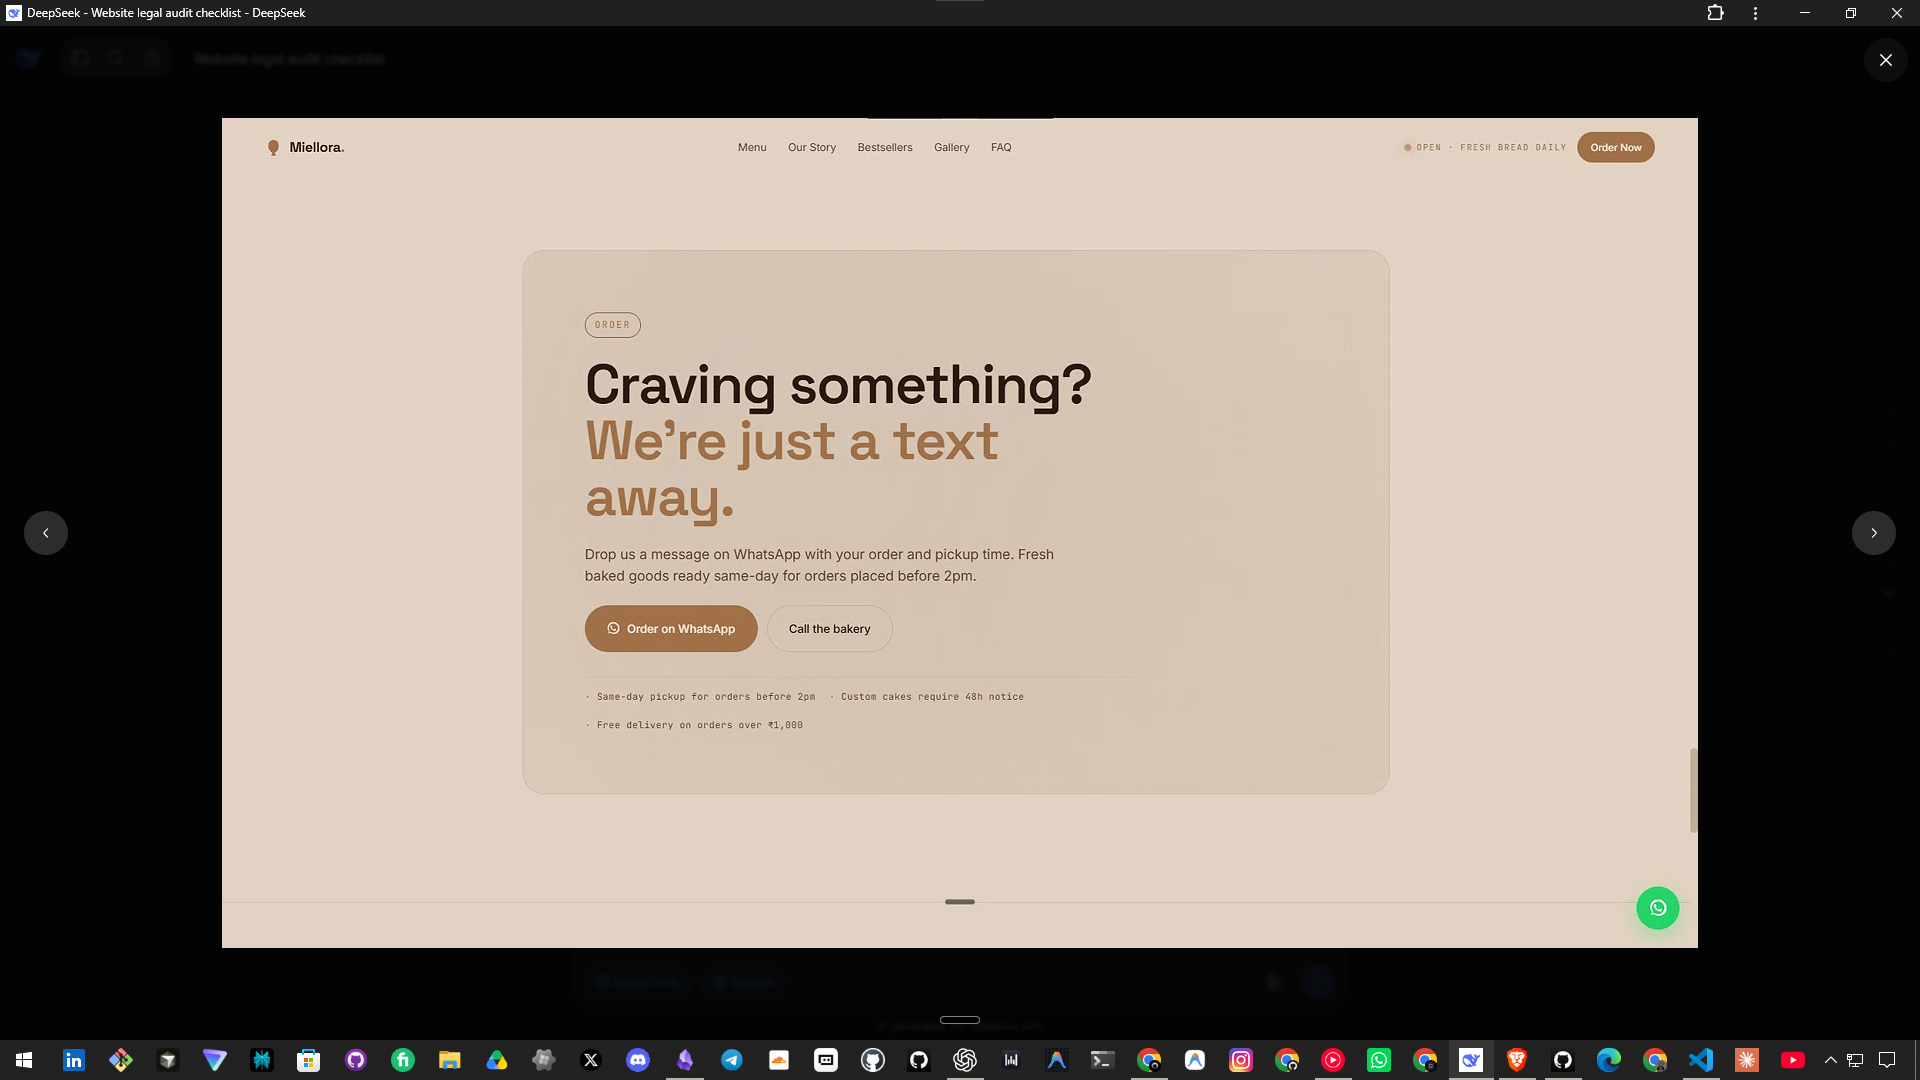
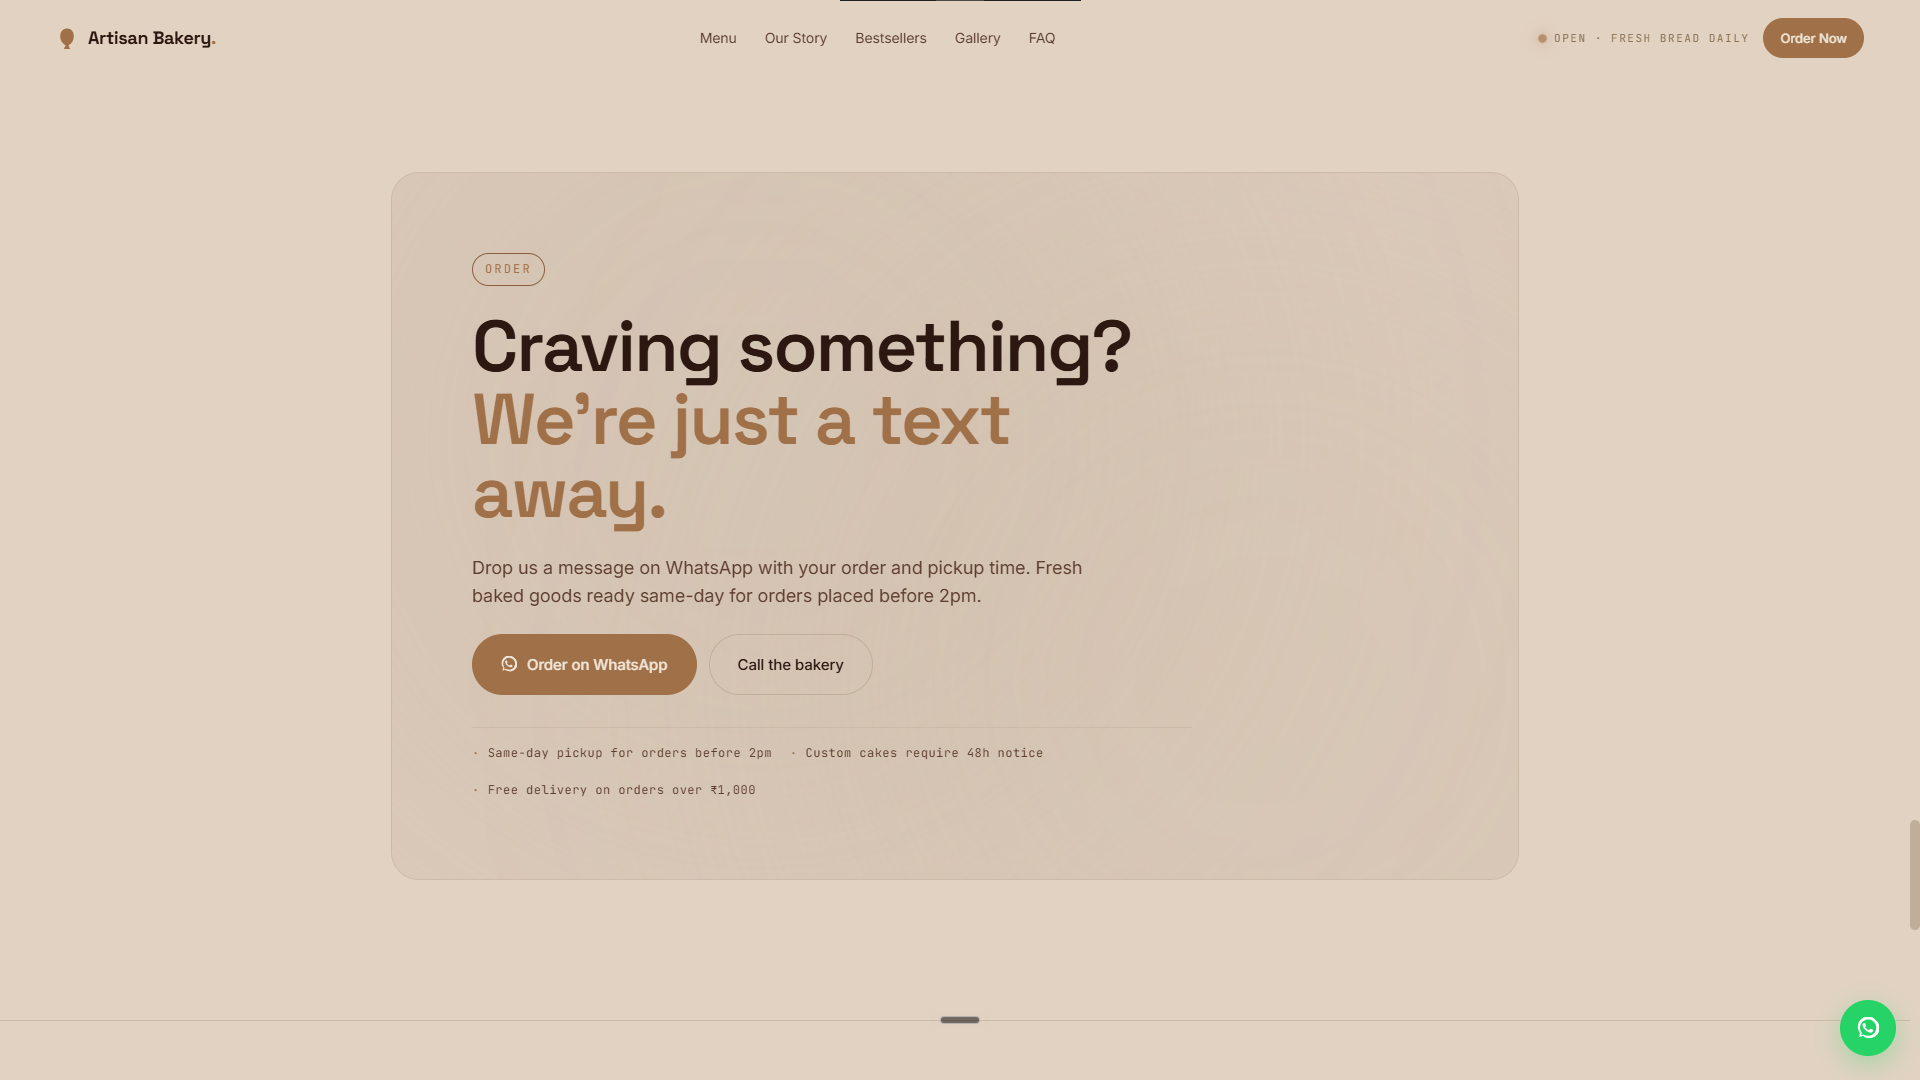
Rebrand to Artisan Bakery and update preview screenshots

diff --git a/index.html b/index.html
@@ -3,10 +3,10 @@
 <head>
   <meta charset="utf-8" />
   <meta name="viewport" content="width=device-width, initial-scale=1, viewport-fit=cover" />
-  <title>Miellora — Artisan Bakery</title>
-  <meta name="description" content="Miellora Bakery crafts fresh, artisan breads, cakes, pastries, and cookies with love. Experience the warmth of handmade baked goods." />
-  <meta property="og:title" content="Miellora — Artisan Bakery">
-  <meta property="og:description" content="Miellora Bakery crafts fresh, artisan breads, cakes, pastries, and cookies with love. Experience the warmth of handmade baked goods.">
+  <title>Artisan Bakery</title>
+  <meta name="description" content="Artisan Bakery crafts fresh, artisan breads, cakes, pastries, and cookies with love. Experience the warmth of handmade baked goods." />
+  <meta property="og:title" content="Artisan Bakery">
+  <meta property="og:description" content="Artisan Bakery crafts fresh, artisan breads, cakes, pastries, and cookies with love. Experience the warmth of handmade baked goods.">
   <meta property="og:type" content="bakery">
   <meta property="og:url" content="https://miellora.akshaycodecrafter.workers.dev/">
   <meta property="og:image" content="https://miellora.akshaycodecrafter.workers.dev/assets/preview-hero.png">
@@ -20,7 +20,7 @@
   {
     "@context": "https://schema.org",
     "@type": "Bakery",
-    "name": "Miellora Bakery",
+    "name": "Artisan Bakery",
     "image": "https://miellora.akshaycodecrafter.workers.dev/assets/preview-hero.png",
     "url": "https://miellora.akshaycodecrafter.workers.dev/",
     "telephone": "+91 90000 00001",
@@ -47,11 +47,11 @@
   <div class="noise" aria-hidden="true"></div>
 
   <header class="nav" id="nav">
-    <a class="nav__brand" href="#top" aria-label="Miellora home">
+    <a class="nav__brand" href="#top" aria-label="Artisan Bakery home">
       <svg class="nav__logo" viewBox="0 0 32 32" aria-hidden="true">
         <path d="M16 2C10 2 6 7 6 13s3 11 8 14l-3 6c-1 2 0 3 2 3h6c2 0 3-1 2-3l-3-6c5-3 8-8 8-14S22 2 16 2z" fill="currentColor"/>
       </svg>
-      <span class="nav__name">Miellora<span class="nav__dot">.</span></span>
+      <span class="nav__name">Artisan Bakery<span class="nav__dot">.</span></span>
     </a>
     <nav class="nav__links" aria-label="Primary">
       <a href="#menu">Menu</a>
@@ -94,7 +94,7 @@
             </div>
 
             <h1 class="hero__title animate-fade-in delay-200">
-              <span class="hero__title-accent">Miellora.</span>
+              <span class="hero__title-accent">Artisan Bakery.</span>
             </h1>
 
             <p class="hero__sub animate-fade-in delay-300">
@@ -437,7 +437,7 @@
           <div class="section__kicker reveal" data-reveal>
             <span class="kicker-num">04</span>
             <span class="kicker-line"></span>
-            <span class="kicker-text">Why Miellora</span>
+            <span class="kicker-text">Why Artisan Bakery</span>
           </div>
           <div class="section__row">
             <h2 class="section__title reveal" data-reveal>
@@ -513,7 +513,7 @@
             <h2 class="order__title">Craving something?<br/><span class="accent">We're just a text away.</span></h2>
             <p class="order__lede">Drop us a message on WhatsApp with your order and pickup time. Fresh baked goods ready same-day for orders placed before 2pm.</p>
             <div class="order__cta">
-              <a class="btn btn--primary btn--lg" href="https://wa.me/919000000001?text=Hi%20Maison%20Miel%2C%20I'd%20like%20to%20place%20an%20order." target="_blank" rel="noopener">
+              <a class="btn btn--primary btn--lg" href="https://wa.me/919000000001?text=Hi%20Artisan%20Bakery%2C%20I'd%20like%20to%20place%20an%20order." target="_blank" rel="noopener">
                 <svg viewBox="0 0 24 24" aria-hidden="true" width="20" height="20"><path fill="currentColor" d="M20.5 3.5A11 11 0 0 0 3.4 17.6L2 22l4.5-1.4A11 11 0 1 0 20.5 3.5Zm-8.5 17a8.9 8.9 0 0 1-4.5-1.2l-.3-.2-2.7.8.8-2.6-.2-.3A8.9 8.9 0 1 1 12 20.5Zm5-6.7c-.3-.1-1.7-.8-2-.9s-.5-.1-.7.1-.8.9-1 1.1-.4.2-.7.1a7.3 7.3 0 0 1-3.6-3.1c-.3-.5.3-.5.8-1.5a.4.4 0 0 0 0-.4l-1-2.3c-.2-.5-.4-.4-.6-.4h-.5a1 1 0 0 0-.7.3 3 3 0 0 0-1 2.3c0 1.3 1 2.6 1.2 2.8s2 3.1 4.9 4.4c1.8.7 2.5.8 3.4.7a2.9 2.9 0 0 0 1.9-1.4 2.4 2.4 0 0 0 .2-1.4c-.1-.1-.3-.2-.6-.3Z"/></svg>
                 Order on WhatsApp
               </a>
@@ -581,13 +581,13 @@
               <svg viewBox="0 0 32 32" aria-hidden="true">
                 <path d="M16 2C10 2 6 7 6 13s3 11 8 14l-3 6c-1 2 0 3 2 3h6c2 0 3-1 2-3l-3-6c5-3 8-8 8-14S22 2 16 2z" fill="currentColor"/>
               </svg>
-              <span>Miellora<span class="nav__dot">.</span></span>
+              <span>Artisan Bakery<span class="nav__dot">.</span></span>
             </div>
             <p>A bakery for people who eat with intention. Walk in, grab a loaf, taste the warmth.</p>
             <div class="footer__contact">
               <a href="https://wa.me/919000000001" target="_blank" rel="noopener">WhatsApp</a>
               <a href="tel:+919000000001">+91 90000 00001</a>
-              <a href="mailto:hello@demo-miellora.example">hello@demo-miellora.example</a>
+              <a href="mailto:hello@demo-artisanbakery.example">hello@demo-artisanbakery.example</a>
             </div>
           </div>
           <div>
@@ -613,7 +613,7 @@
           </div>
         </div>
         <div class="footer__bottom">
-          <span>&copy; 2026 Miellora Bakery. All rights reserved.</span>
+          <span>&copy; 2026 Artisan Bakery. All rights reserved.</span>
           <span>Baked with love.</span>
         </div>
         <p class="demo-disclaimer">
@@ -623,7 +623,7 @@
     </footer>
   </main>
 
-  <a class="whatsapp" href="https://wa.me/919000000001?text=Hi%20Maison%20Miel%2C%20I'd%20like%20to%20place%20an%20order." target="_blank" rel="noopener" aria-label="Chat on WhatsApp">
+  <a class="whatsapp" href="https://wa.me/919000000001?text=Hi%20Artisan%20Bakery%2C%20I'd%20like%20to%20place%20an%20order." target="_blank" rel="noopener" aria-label="Chat on WhatsApp">
     <svg viewBox="0 0 24 24" aria-hidden="true" width="26" height="26"><path fill="currentColor" d="M20.5 3.5A11 11 0 0 0 3.4 17.6L2 22l4.5-1.4A11 11 0 1 0 20.5 3.5Zm-8.5 17a8.9 8.9 0 0 1-4.5-1.2l-.3-.2-2.7.8.8-2.6-.2-.3A8.9 8.9 0 1 1 12 20.5Zm5-6.7c-.3-.1-1.7-.8-2-.9s-.5-.1-.7.1-.8.9-1 1.1-.4.2-.7.1a7.3 7.3 0 0 1-3.6-3.1c-.3-.5.3-.5.8-1.5a.4.4 0 0 0 0-.4l-1-2.3c-.2-.5-.4-.4-.6-.4h-.5a1 1 0 0 0-.7.3 3 3 0 0 0-1 2.3c0 1.3 1 2.6 1.2 2.8s2 3.1 4.9 4.4c1.8.7 2.5.8 3.4.7a2.9 2.9 0 0 0 1.9-1.4 2.4 2.4 0 0 0 .2-1.4c-.1-.1-.3-.2-.6-.3Z"/></svg>
   </a>
 

diff --git a/README.md b/README.md
@@ -1,4 +1,4 @@
-# Miellora — Artisan Bakery
+# Artisan Bakery
 
 A landing page concept for a warm, handcrafted-feeling artisan bakery in Connaught Place, New Delhi.
 
@@ -18,7 +18,7 @@ A landing page concept for a warm, handcrafted-feeling artisan bakery in Connaug
 
 ## About
 
-Miellora came from wanting a bakery site that felt handmade rather than corporate — most bakery landing pages either go overly cute or overly minimal, and I wanted something in between: warm tones, real texture, and enough detail (a founding year, a story section, a stats card) to feel like an actual neighborhood spot rather than a template. The whole page is built around the idea of a small team baking fresh, single-batch bread and pastries every morning.
+Artisan Bakery came from wanting a bakery site that felt handmade rather than corporate — most bakery landing pages either go overly cute or overly minimal, and I wanted something in between: warm tones, real texture, and enough detail (a founding year, a story section, a stats card) to feel like an actual neighborhood spot rather than a template. The whole page is built around the idea of a small team baking fresh, single-batch bread and pastries every morning.
 
 ## What's on the page
 
